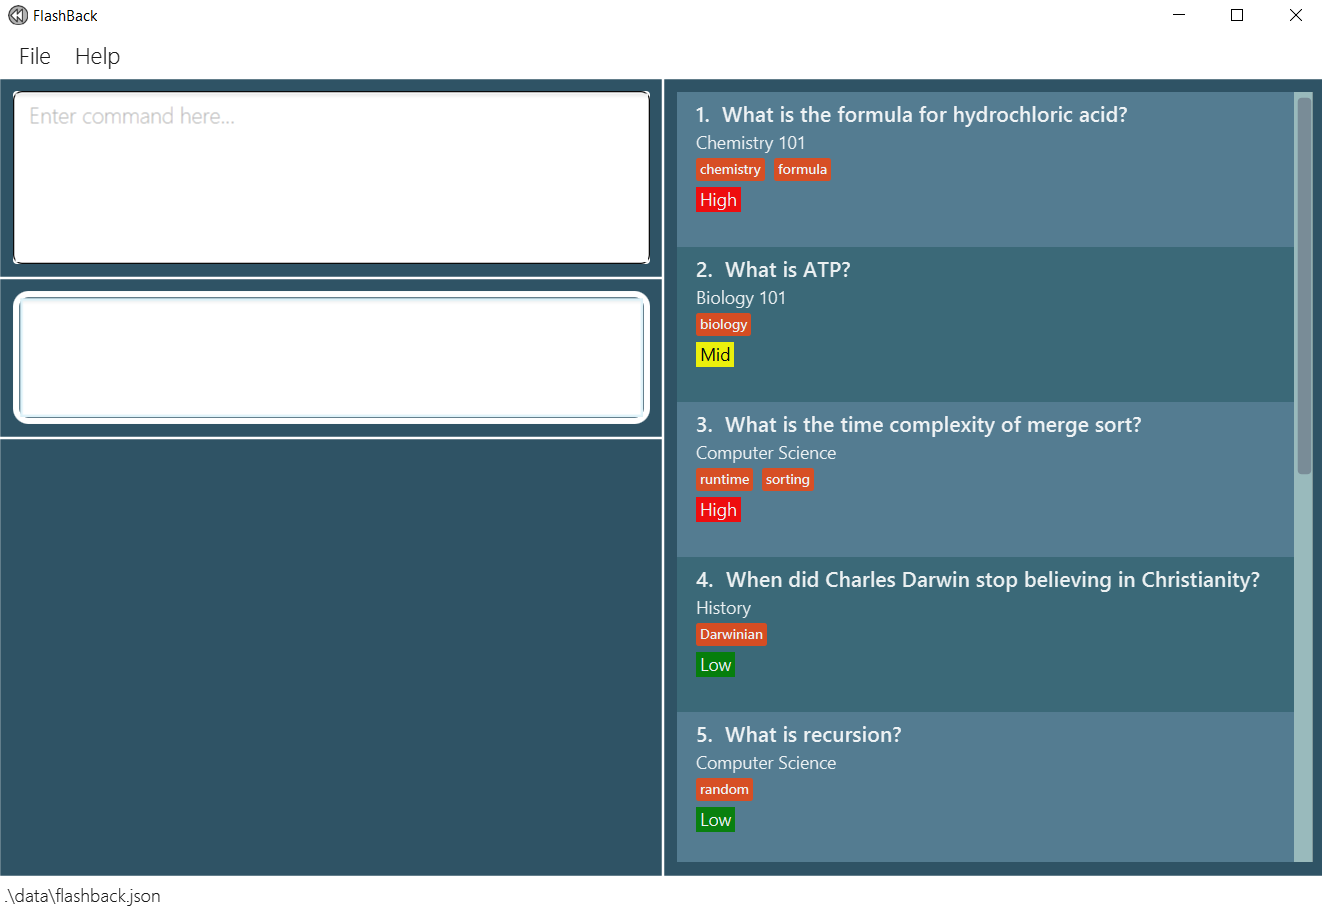
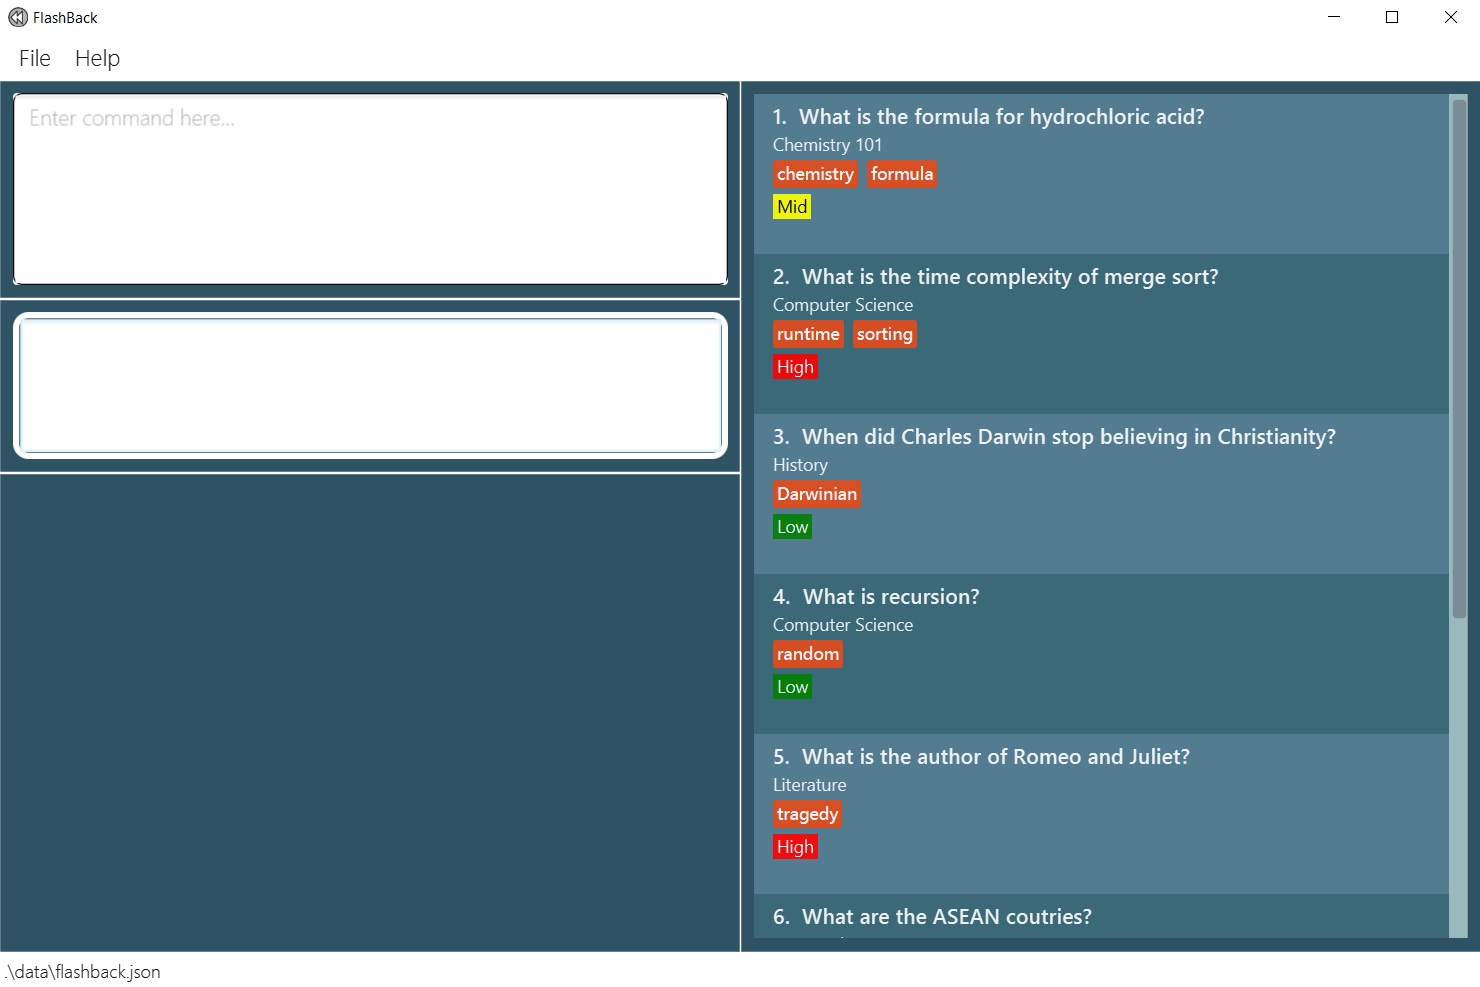
Enlarge the font size for the tags

Changed region(s): [[0.0, 0.0, 1.0, 1.0]]

diff --git a/src/main/resources/view/LightTheme.css b/src/main/resources/view/LightTheme.css
@@ -384,5 +384,5 @@
     -fx-padding: 1 3 1 3;
     -fx-border-radius: 2;
     -fx-background-radius: 2;
-    -fx-font-size: 11;
+    -fx-font-size: 14;
 }

diff --git a/docs/UserGuide.md b/docs/UserGuide.md
@@ -80,6 +80,8 @@ Command Box | This is where you type all the commands.
 Result Display | This is where the result of your input to the command box is displayed.
 View Pane | This is where the output for `view` and `stats` command is displayed.
 Flashcard List | This is where all the flashcards are displayed to user.
+Main mode | This is the first window when you open the app. Most of the command is executed here.
+Review mode | This is where you can review all your flashcards. You can enter this mode by typing `review` in the Command Box of the Main mode.
 
 --------------------------------------------------------------------------------------------------------------------
 
@@ -127,8 +129,8 @@ Format: `help`
 
 Adds a new card to the card list.<br>
 Format: `add q/QUESTION a/ANSWER c/CATEGORY p/PRIORITY [t/TAG]...` <br />
-Note: The TAG is optional when adding a new card.
-<div markdown="span" class="alert alert-primary">:memo: **Note:**
+<div markdown="span" class="alert alert-primary">:memo: **Note:** <br>
+The `TAG` is optional when adding a new card.<br>
 Priority can only take 1 out of 3 values: `High`, `Mid` or `Low`.
 </div>
 
@@ -196,7 +198,7 @@ Examples:
 
 ### Finding cards : `find`
 
-Find flashcards containing any of the given keywords.
+Finds flashcards containing any of the given keywords.
 
 Format: `find KEYWORD [MORE_KEYWORDS]`
 
@@ -253,10 +255,12 @@ Format: `clear`
 
 ### Undoing a command : `undo`
 
-Restore FlashBack to the state before the previous command was executed.
+Restores FlashBack to the state before the previous command was executed.
 <div markdown="span" class="alert alert-primary">:memo:
 **Note:**  Only commands that modify FlashBack's content can be reversed. (`add`, `delete`, `edit` and `clear`).
 </div>
+
+Format: `undo`
 
 Examples:
 `delete 3` <br><br>
@@ -268,11 +272,11 @@ Examples:
 `undo` will reverse the `delete 3` command. <br><br>
 ![UiDeleteAfterUndo](./images/UiDeleteAfterUndo.png) <br><br>
 
-Format: `undo`
-
 ### Redoing a command : `redo`
 
-Restore FlashBack to the state before the previous command was undo.
+Restores FlashBack to the state before the previous command was undo.
+
+Format: `redo`
 
 Examples:
 `delete 3` <br><br>
@@ -282,8 +286,6 @@ Examples:
 `redo` will reverse the `undo` command. <br><br>
 ![UiAfterRedo](./images/UiAfterRedo.png) <br><br>
 
-Format: `redo`
-
 ### Sorting all cards: `sort`
 Sorts all flashcards according to a given option.
 <div markdown="span" class="alert alert-primary">
@@ -292,6 +294,7 @@ Sorts all flashcards according to a given option.
 
 </div>
 
+Format: `sort <priority|question> -<a|d>` <br>
 Examples:
 
 `sort priority -a` will sort the flashcards by ascending priority. <br>
